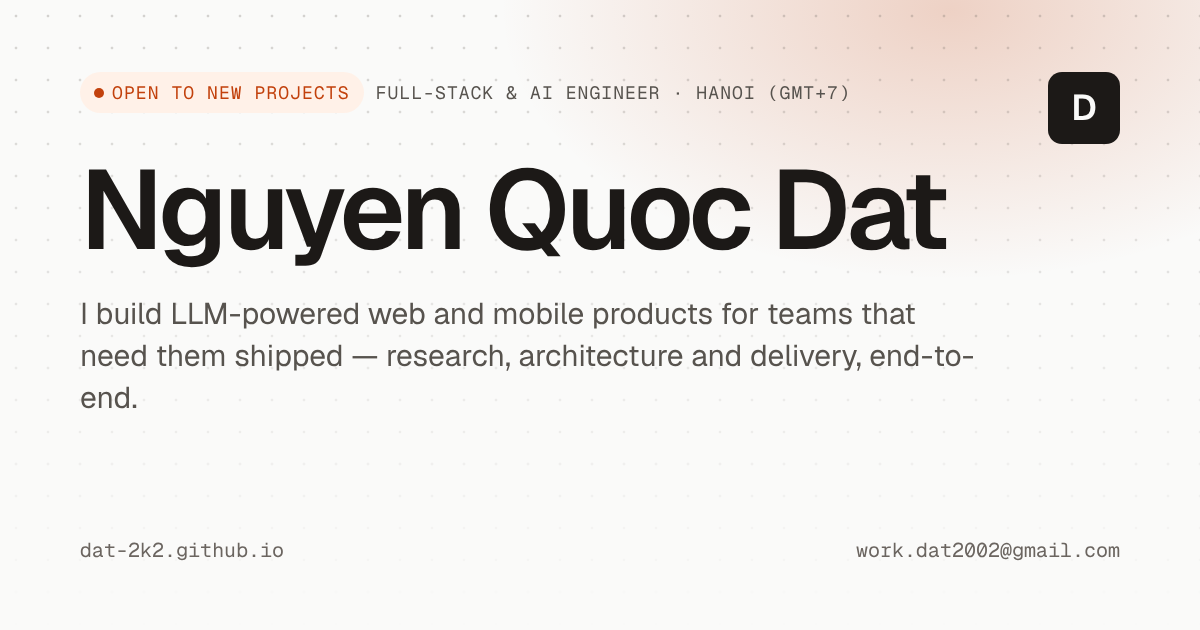
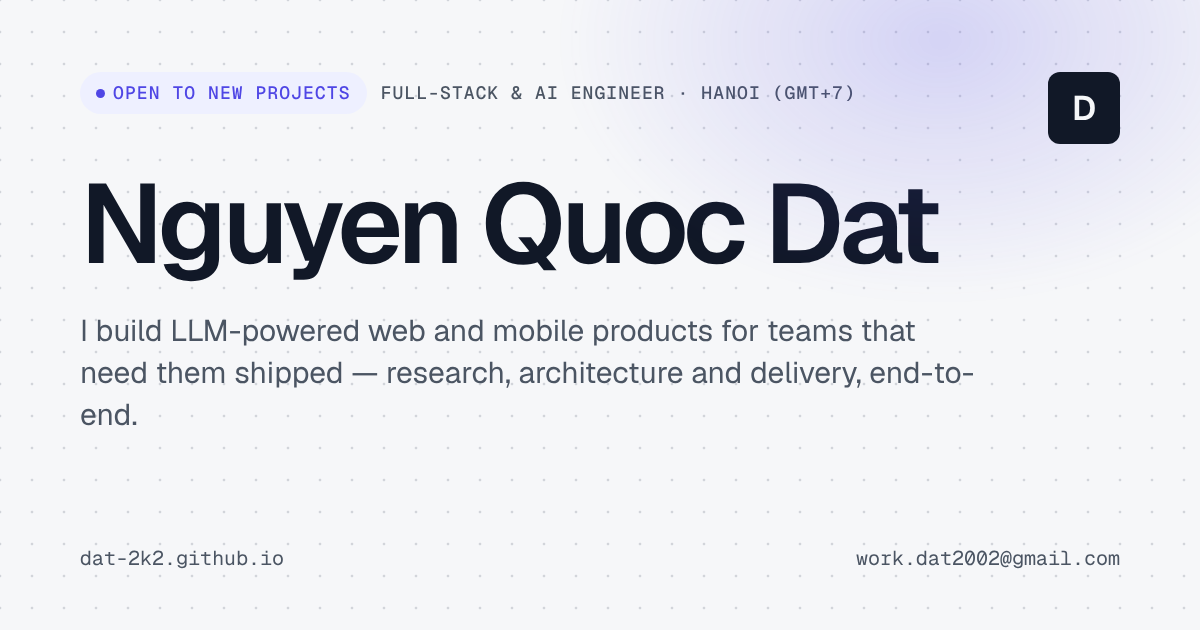
Palette v2: slate + indigo, retire orange-on-black dark mode
kit/kit.css (shared by the site, quantum-labs, shader-sandbox, FuncProg):
- cool slate neutrals, indigo accent (#4f46e5 / #818cf8), lavender code highlight
- status hues unchanged in role; info moves to cyan to stay distinct from the accent
- new --cat-* service-group hues (+ --on-cat) for app pages such as CloudLab
- all text pairs >= 4.5:1 (axe: 0 violations, light + dark, home + projects)
Also: theme-color metas, favicon.svg/png, apple-touch-icon and og.png re-rendered,
tests/check.js dark-background expectation updated. Figma variables updated to match.

Claude-Session: https://claude.ai/code/session_018SL91HT352Vum2hwj7evDn

diff --git a/kit/kit.css b/kit/kit.css
@@ -12,28 +12,33 @@
    ================================================================== */
 
 /* ---- 1. Tokens --------------------------------------------------- */
+/* Palette v2 (Oct 2026): cool slate neutrals + indigo accent. Orange-on-black is retired.
+   Status hues (ok / warn / bad / info) are reserved for state; --cat-* are per-service
+   group hues for app pages (CloudLab etc.) and are never used for status. */
 :root {
-  --bg: #fafaf9;
+  --bg: #f6f7f9;
   --surface: #ffffff;
-  --surface-2: #f2f1ef;
-  --border: #e4e2df;
-  --border-strong: #8f8882;
-  --border-card: #d6d3d0;
-  --text: #1c1917;
-  --text-muted: #57534e;
-  --text-subtle: #6b6560;
-  --accent: #c2410c;
+  --surface-2: #f0f2f5;
+  --border: #e3e6eb;
+  --border-strong: #9ca3af;
+  --border-card: #d5d9e0;
+  --text: #111827;
+  --text-muted: #4b5563;
+  --text-subtle: #6b7280;
+  --accent: #4f46e5;
   --on-accent: #ffffff;
-  --accent-soft: #fff1e8;
+  --accent-soft: #eef0ff;
   --ok: #15803d;      --ok-soft: #eaf6ee;
   --warn: #b45309;    --warn-soft: #fdf5e7;
   --bad: #b91c1c;     --bad-soft: #fdeeee;
-  --info: #1d4ed8;    --info-soft: #eef3fe;
-  --code-bg: #161412; --code-ink: #e6edf3; --code-muted: #8f8882;
-  --code-accent: #fb923c; --code-ok: #3ddc84; --code-info: #79b8ff; --code-border: #2a2623;
-  --glow: rgba(194, 65, 12, 0.22);
-  --dot: rgba(107, 101, 96, 0.28);
-  --shadow: 0 1px 2px rgba(28, 25, 23, 0.04), 0 12px 32px -16px rgba(28, 25, 23, 0.18);
+  --info: #0e7490;    --info-soft: #e9f6f9;
+  --cat-cost: #0f766e; --cat-notify: #be185d; --cat-security: #6d28d9; --cat-storage: #0369a1;
+  --cat-compute: #4d7c0f; --cat-monitor: #a21caf; --cat-infra: #475569; --on-cat: #ffffff;
+  --code-bg: #0f131b; --code-ink: #e6e9ef; --code-muted: #8b93a3;
+  --code-accent: #c4b5fd; --code-ok: #4ade80; --code-info: #7dd3fc; --code-border: #232a37;
+  --glow: rgba(79, 70, 229, 0.20);
+  --dot: rgba(107, 114, 128, 0.26);
+  --shadow: 0 1px 2px rgba(17, 24, 39, 0.04), 0 12px 32px -16px rgba(17, 24, 39, 0.18);
   --focus: var(--accent);
 
   --font-sans: "Geist", ui-sans-serif, system-ui, -apple-system, "Segoe UI", Roboto, sans-serif;
@@ -50,27 +55,31 @@
 }
 @media (prefers-color-scheme: dark) {
   :root:not([data-theme="light"]) {
-    --bg: #0c0a09; --surface: #161412; --surface-2: #1c1917;
-    --border: #2a2623; --border-strong: #6b6560; --border-card: #3a3532;
-    --text: #f5f5f4; --text-muted: #a8a29e; --text-subtle: #8f8882;
-    --accent: #fb923c; --on-accent: #0c0a09; --accent-soft: #2a1608;
-    --ok: #4ade80; --ok-soft: #12261a; --warn: #fbbf24; --warn-soft: #2a2112;
-    --bad: #f87171; --bad-soft: #2c1517; --info: #6ea0ff; --info-soft: #16213a;
-    --code-bg: #0c0a09;
-    --glow: rgba(251, 146, 60, 0.16); --dot: rgba(143, 136, 130, 0.28);
+    --bg: #0b0e14; --surface: #121620; --surface-2: #181d29;
+    --border: #252c3a; --border-strong: #4a5466; --border-card: #303849;
+    --text: #e6e9ef; --text-muted: #a3abb9; --text-subtle: #8b93a3;
+    --accent: #818cf8; --on-accent: #0b0e14; --accent-soft: #1d2142;
+    --ok: #4ade80; --ok-soft: #10261b; --warn: #fbbf24; --warn-soft: #2a2210;
+    --bad: #f87171; --bad-soft: #2e1519; --info: #67e8f9; --info-soft: #0d2730;
+    --cat-cost: #2dd4bf; --cat-notify: #f472b6; --cat-security: #a78bfa; --cat-storage: #38bdf8;
+    --cat-compute: #a3e635; --cat-monitor: #e879f9; --cat-infra: #94a3b8; --on-cat: #0b0e14;
+    --code-bg: #080a0f;
+    --glow: rgba(129, 140, 248, 0.16); --dot: rgba(139, 147, 163, 0.26);
     --shadow: 0 1px 2px rgba(0, 0, 0, 0.4), 0 12px 32px -16px rgba(0, 0, 0, 0.6);
     color-scheme: dark;
   }
 }
 :root[data-theme="dark"] {
-  --bg: #0c0a09; --surface: #161412; --surface-2: #1c1917;
-  --border: #2a2623; --border-strong: #6b6560; --border-card: #3a3532;
-  --text: #f5f5f4; --text-muted: #a8a29e; --text-subtle: #8f8882;
-  --accent: #fb923c; --on-accent: #0c0a09; --accent-soft: #2a1608;
-  --ok: #4ade80; --ok-soft: #12261a; --warn: #fbbf24; --warn-soft: #2a2112;
-  --bad: #f87171; --bad-soft: #2c1517; --info: #6ea0ff; --info-soft: #16213a;
-  --code-bg: #0c0a09;
-  --glow: rgba(251, 146, 60, 0.16); --dot: rgba(143, 136, 130, 0.28);
+  --bg: #0b0e14; --surface: #121620; --surface-2: #181d29;
+  --border: #252c3a; --border-strong: #4a5466; --border-card: #303849;
+  --text: #e6e9ef; --text-muted: #a3abb9; --text-subtle: #8b93a3;
+  --accent: #818cf8; --on-accent: #0b0e14; --accent-soft: #1d2142;
+  --ok: #4ade80; --ok-soft: #10261b; --warn: #fbbf24; --warn-soft: #2a2210;
+  --bad: #f87171; --bad-soft: #2e1519; --info: #67e8f9; --info-soft: #0d2730;
+  --cat-cost: #2dd4bf; --cat-notify: #f472b6; --cat-security: #a78bfa; --cat-storage: #38bdf8;
+  --cat-compute: #a3e635; --cat-monitor: #e879f9; --cat-infra: #94a3b8; --on-cat: #0b0e14;
+  --code-bg: #080a0f;
+  --glow: rgba(129, 140, 248, 0.16); --dot: rgba(139, 147, 163, 0.26);
   --shadow: 0 1px 2px rgba(0, 0, 0, 0.4), 0 12px 32px -16px rgba(0, 0, 0, 0.6);
   color-scheme: dark;
 }

diff --git a/projects/index.html b/projects/index.html
@@ -7,8 +7,8 @@
   <meta name="description" content="Live, interactive demos by Nguyen Quoc Dat: Quantum Labs (11 quantum algorithms with an in-browser simulator), Shader Testbed (a WebGL raymarcher with a live GLSL editor) and FuncProg (Haskell coursework running in the browser).">
   <meta name="author" content="Nguyen Quoc Dat">
   <link rel="canonical" href="https://dat-2k2.github.io/projects/">
-  <meta name="theme-color" content="#fafaf9" media="(prefers-color-scheme: light)">
-  <meta name="theme-color" content="#0c0a09" media="(prefers-color-scheme: dark)">
+  <meta name="theme-color" content="#f6f7f9" media="(prefers-color-scheme: light)">
+  <meta name="theme-color" content="#0b0e14" media="(prefers-color-scheme: dark)">
   <meta name="color-scheme" content="light dark">
 
   <meta property="og:type" content="website">

diff --git a/index.html b/index.html
@@ -7,8 +7,8 @@
   <meta name="description" content="Nguyen Quoc Dat builds LLM-powered web and mobile products end-to-end: Next.js, React Native/Expo, Supabase, Vertex AI. Software Engineer at PropGate, Hanoi. Open to new projects.">
   <meta name="author" content="Nguyen Quoc Dat">
   <link rel="canonical" href="https://dat-2k2.github.io/">
-  <meta name="theme-color" content="#fafaf9" media="(prefers-color-scheme: light)">
-  <meta name="theme-color" content="#0c0a09" media="(prefers-color-scheme: dark)">
+  <meta name="theme-color" content="#f6f7f9" media="(prefers-color-scheme: light)">
+  <meta name="theme-color" content="#0b0e14" media="(prefers-color-scheme: dark)">
   <meta name="color-scheme" content="light dark">
 
   <meta property="og:type" content="profile">

diff --git a/tests/check.js b/tests/check.js
@@ -105,7 +105,7 @@ async function checkLink(href, ctx) {
       log(sw <= iw, `${pageName} ${vp.name} ${scheme}: no horizontal scroll (scrollWidth ${sw} ≤ innerWidth ${iw})`);
       const applied = await page.evaluate(() => getComputedStyle(document.body).backgroundColor);
       const expectDark = scheme === "dark";
-      const isDark = /rgb\(12, 10, 9\)/.test(applied);
+      const isDark = /rgb\(11, 14, 20\)/.test(applied);
       log(isDark === expectDark, `${pageName} ${vp.name} ${scheme}: prefers-color-scheme honoured (body bg ${applied})`);
       await ctx.close();
     }
